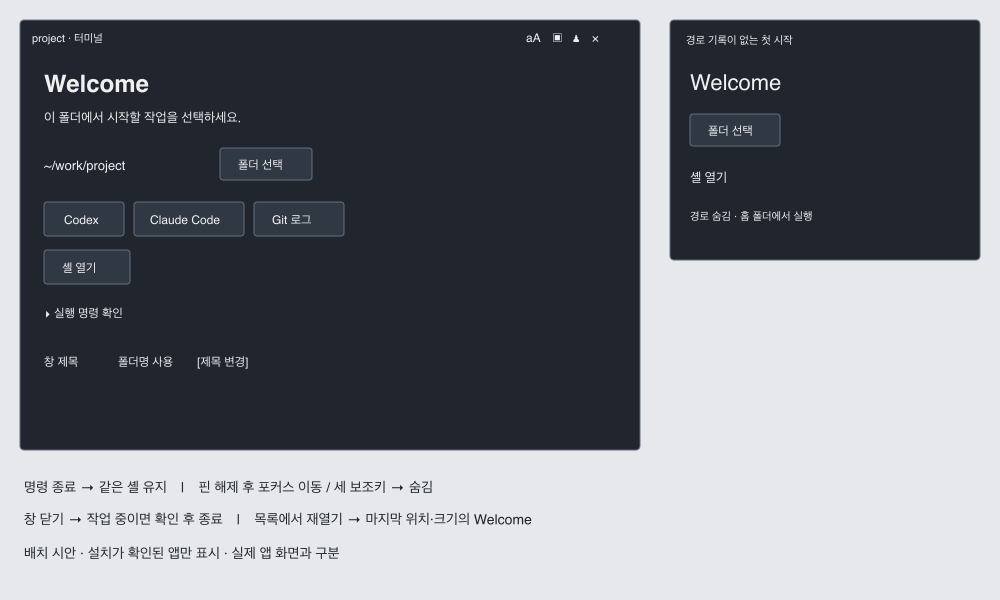
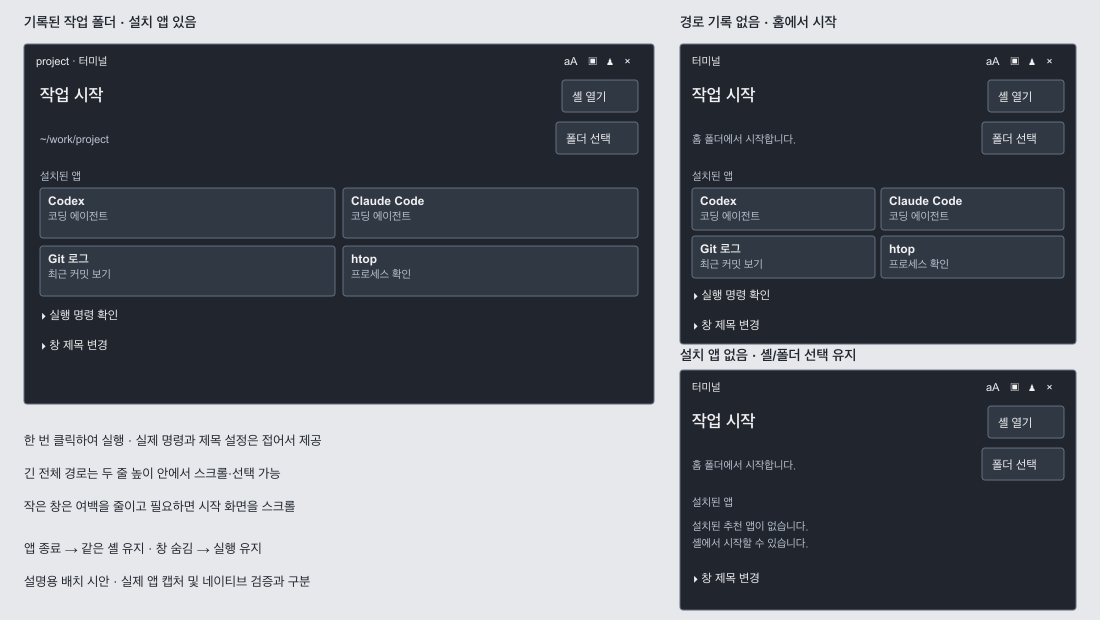
터미널 시작 화면을 전문가 합의에 맞춰 구성하고 키보드 초점을 보존
작업 위치와 앱 실행을 우선하고 명령 확인과 제목 변경을 접어 작은 창의 사용성을 개선한다. UX·접근성·Argon 토론 기록과 SVG/PNG를 갱신한다. UI 64개, Chromium 두 크기 시나리오, 개발 빌드 통과. 기존 부분 범위 탐색 테스트 실패와 네이티브 미검증은 유지한다.

diff --git a/ui/terminal.js b/ui/terminal.js
@@ -38,28 +38,44 @@ document.getElementById('close').onclick=()=>invoke(generic?'terminal_close':'te
 function setInfo(info){
   document.getElementById('title').textContent=info.title;
   const path=document.getElementById('work-path');path.hidden=!info.last_path;path.textContent=info.last_path||'';
+  document.getElementById('home-hint').hidden=Boolean(info.last_path);
 }
-async function start(choice){
+async function start(choice, trigger){
   if(started||starting)return;
   starting=true;
+  status.textContent=`${trigger?.dataset?.label||'터미널'} 시작 중…`;
+  document.getElementById('welcome').setAttribute('aria-busy','true');
   document.getElementById('welcome').hidden=true;
   document.getElementById('terminal').hidden=false;measure();
   const output=new Channel();output.onmessage=bytes=>terminal.write(new Uint8Array(bytes));
   try{
     await invoke('terminal_start',{cols:terminal.cols,rows:terminal.rows,output,choice});
     started=true;status.textContent='';measure();
-  }catch(e){report(e);if(generic){document.getElementById('welcome').hidden=false;document.getElementById('terminal').hidden=true;}}
-  finally{starting=false;}
+    if(trigger && document.hasFocus() && (document.activeElement===trigger || document.activeElement===document.body))terminal.focus();
+  }catch(e){
+    const restoreFocus=trigger && document.hasFocus() && (document.activeElement===trigger || document.activeElement===document.body);
+    report(e);if(generic){document.getElementById('welcome').hidden=false;document.getElementById('terminal').hidden=true;if(restoreFocus)trigger.focus({preventScroll:true});}
+  }
+  finally{starting=false;document.getElementById('welcome').setAttribute('aria-busy','false');}
 }
 async function welcome(){
   const {info,choices}=await invoke('terminal_welcome');setInfo(info);
   const list=document.getElementById('recommendations');list.replaceChildren();
-  for(const item of choices){const button=document.createElement('button');button.textContent=item.label;button.title=item.command;button.onclick=()=>start(item.id);list.append(button);}
+  const descriptions={codex:'코딩 에이전트',claude:'코딩 에이전트',git:'최근 커밋 보기',htop:'프로세스 확인'};
+  for(const item of choices){
+    const button=document.createElement('button');button.className='launch-app';button.dataset.label=item.label;button.setAttribute('aria-label',item.label);
+    const name=document.createElement('span');name.className='launch-name';name.textContent=item.label;
+    const description=document.createElement('span');description.className='launch-description';description.id=`description-${item.id}`;button.setAttribute('aria-describedby',description.id);description.textContent=descriptions[item.id]||'';
+    button.append(name,description);button.title=item.command;button.onclick=()=>start(item.id,button);list.append(button);
+  }
+  document.getElementById('no-apps').hidden=choices.length>0;
+  document.getElementById('command-details').hidden=choices.length===0;
   document.getElementById('commands').textContent=choices.map(item=>`${item.label}: ${item.command}`).join('\n');
 }
-document.getElementById('open-shell').onclick=()=>start('shell');
+document.getElementById('open-shell').dataset.label='셸';
+document.getElementById('open-shell').onclick=()=>start('shell',document.getElementById('open-shell'));
 document.getElementById('choose-folder').onclick=async()=>{try{setInfo(await invoke('terminal_folder'));}catch(e){report(e);}};
-document.getElementById('rename-form').onsubmit=async event=>{event.preventDefault();try{setInfo(await invoke('terminal_rename',{title:document.getElementById('rename-title').value}));}catch(e){report(e);}};
+document.getElementById('rename-form').onsubmit=async event=>{event.preventDefault();try{setInfo(await invoke('terminal_rename',{title:document.getElementById('rename-title').value}));status.textContent='창 제목을 변경했습니다.';}catch(e){report(e);}};
 (async()=>{
   const info=await invoke('terminal_info');generic=info.kind==='terminal';setInfo(info);
   if(generic){

diff --git a/ui/terminal.css b/ui/terminal.css
@@ -1,5 +1,30 @@
 html,body{width:100%;height:100%;overflow:hidden}body{cursor:default}header{height:30px;min-height:30px;display:flex;align-items:center;padding:0 8px;cursor:move;user-select:none}#title{font:var(--font-ui)/var(--line-ui) -apple-system,sans-serif;overflow:hidden;text-overflow:ellipsis;white-space:nowrap;max-width:calc(100% - 110px)}#status{padding:4px 8px;white-space:pre-wrap;overflow:auto;flex-shrink:0;max-height:50%}#status:empty{display:none}#terminal{flex:1;min-height:0;padding:3px 5px 5px;overflow:hidden;letter-spacing:0;cursor:text}.xterm{height:100%}.xterm-viewport{border-radius:0}#controls{opacity:1;pointer-events:auto}
 
-[hidden]{display:none!important}#welcome{flex:1;overflow:auto;padding:20px;min-height:0}#welcome h1{font-size:22px;margin:0 0 8px}#welcome p{opacity:.8}#welcome button,#welcome input{font:inherit;color:inherit;border:1px solid #667080;border-radius:3px;background:#303844;padding:7px 10px}#welcome button{cursor:pointer}#welcome button:hover{background:#414c5c}#welcome button:focus-visible,#welcome input:focus-visible{outline:2px solid #a8c5ff;outline-offset:2px}.folder-row{display:flex;gap:8px;align-items:center;flex-wrap:wrap;margin:20px 0}#work-path{overflow-wrap:anywhere;min-width:0}#recommendations{display:flex;gap:8px;flex-wrap:wrap;margin:12px 0}#welcome details{margin:18px 0}#commands{white-space:pre-wrap;overflow-wrap:anywhere;font-size:11px}#rename-form{display:flex;gap:8px;align-items:center;flex-wrap:wrap}#rename-title{min-width:80px;max-width:100%;box-sizing:border-box}
-#welcome button{width:auto;height:auto;min-height:32px;white-space:nowrap}#welcome input{user-select:text;-webkit-user-select:text}#work-path,#commands{user-select:text;-webkit-user-select:text}
-#welcome button{min-width:64px}
+[hidden]{display:none!important}
+#welcome{flex:1;overflow:auto;padding:16px;min-height:0}
+.welcome-heading{display:flex;align-items:center;justify-content:space-between;gap:12px;margin-bottom:12px}
+#welcome h1{font-size:17px;line-height:24px;margin:0;font-weight:600}
+#welcome h2{font-size:11px;line-height:16px;margin:0 0 6px;color:#bac3cf;font-weight:500}
+#welcome button,#welcome input{font:inherit;color:inherit;border:1px solid #667080;border-radius:3px;background:#303844;padding:6px 10px}
+#welcome button{width:auto;height:auto;min-width:64px;min-height:32px;cursor:pointer;white-space:normal}
+#welcome button:hover{background:#414c5c}
+#welcome button:focus-visible,#welcome input:focus-visible,#welcome summary:focus-visible,#work-path:focus-visible{outline:2px solid #a8c5ff;outline-offset:2px}
+.folder-row{display:flex;gap:10px;align-items:center;margin-bottom:14px}
+.folder-location{flex:1;min-width:0}
+#work-path{display:block;overflow-wrap:anywhere;max-height:3.2em;overflow:auto;line-height:1.6;user-select:text;-webkit-user-select:text}
+#home-hint{color:#bac3cf;font-size:11px}
+#choose-folder{flex-shrink:0}
+#recommendations{display:grid;grid-template-columns:repeat(2,minmax(0,1fr));gap:8px}
+#welcome .launch-app{display:flex;flex-direction:column;align-items:flex-start;text-align:left;gap:2px;min-width:0;padding:8px 10px}
+.launch-name{font-weight:600}.launch-description{font-size:11px;line-height:14px;color:#bac3cf}
+#no-apps{margin:0;font-size:11px;color:#bac3cf}
+#welcome details{margin-top:12px}#welcome summary{cursor:pointer;width:fit-content;padding:2px 0}
+#commands{white-space:pre-wrap;overflow-wrap:anywhere;font-size:11px;user-select:text;-webkit-user-select:text;margin:8px 0}
+#rename-form{display:flex;gap:8px;align-items:center;flex-wrap:wrap;margin-top:8px}
+#rename-title{flex:1;min-width:80px;max-width:100%;box-sizing:border-box;user-select:text;-webkit-user-select:text}
+#welcome .setting-hint{font-size:11px;color:#bac3cf;margin:6px 0 0}
+@media(max-width:420px),(max-height:300px){
+ #welcome{padding:10px 12px}.welcome-heading{margin-bottom:8px;gap:8px}
+ .folder-row{margin-bottom:8px;gap:8px}#recommendations{gap:6px}
+ #welcome .launch-app{padding:4px 8px;gap:0}#welcome details{margin-top:8px}
+}

diff --git a/ui/terminal.html b/ui/terminal.html
@@ -12,12 +12,11 @@
 </div>
 <button id="toolbar-next" aria-label="다음 도구" aria-controls="toolbar-items" hidden><svg viewBox="0 0 24 24" aria-hidden="true"><path d="m10 6 6 6-6 6"/></svg></button>
 </div>
-<section id="welcome" hidden aria-label="Welcome">
-<h1>Welcome</h1><p>이 폴더에서 시작할 작업을 선택하세요.</p>
-<div class="folder-row"><span id="work-path" hidden></span><button id="choose-folder">폴더 선택</button></div>
-<div id="recommendations" aria-label="설치된 앱"></div>
-<button id="open-shell">셸 열기</button>
-<details><summary>실행 명령 확인</summary><pre id="commands"></pre></details>
-<form id="rename-form"><label for="rename-title">창 제목</label><input id="rename-title" maxlength="120" placeholder="폴더명 사용"><button type="submit">제목 변경</button></form>
+<section id="welcome" hidden aria-label="작업 시작" aria-busy="false">
+<div class="welcome-heading"><h1>작업 시작</h1><button id="open-shell">셸 열기</button></div>
+<div class="folder-row"><div class="folder-location"><span id="work-path" tabindex="0" aria-label="작업 폴더 전체 경로" hidden></span><span id="home-hint">홈 폴더에서 시작합니다.</span></div><button id="choose-folder">폴더 선택</button></div>
+<section class="apps-section" aria-labelledby="apps-heading"><h2 id="apps-heading">설치된 앱</h2><div id="recommendations"></div><p id="no-apps" hidden>설치된 추천 앱이 없습니다. 셸에서 시작할 수 있습니다.</p></section>
+<details id="command-details"><summary>실행 명령 확인</summary><pre id="commands"></pre></details>
+<details id="title-details"><summary>창 제목 변경</summary><form id="rename-form"><label for="rename-title">제목</label><input id="rename-title" maxlength="120" placeholder="비우면 폴더명 사용"><button type="submit">적용</button></form><p class="setting-hint">비우면 폴더명을 사용합니다.</p></details>
 </section><div id="status" role="status"></div><main id="terminal" aria-label="에이전트 터미널"></main></div><div class="resize" data-direction="North" id="n"></div><div class="resize" data-direction="South" id="s"></div><div class="resize" data-direction="East" id="e"></div><div class="resize" data-direction="West" id="w"></div><div class="resize corner" data-direction="NorthWest" id="nw"></div><div class="resize corner" data-direction="NorthEast" id="ne"></div><div class="resize corner" data-direction="SouthWest" id="sw"></div><div class="resize corner" data-direction="SouthEast" id="se"></div>
 <script src="vendor/xterm.js"></script><script src="vendor/addon-fit.js"></script><script src="terminal-ime.js"></script><script src="terminal.js"></script><script type="module" src="toolbar.js"></script></body></html>

diff --git a/docs/verification/issue57-welcome-review.md b/docs/verification/issue57-welcome-review.md
@@ -1,0 +1,35 @@
+# #57 Welcome 구성 개선 토론 — 2026-11-05
+
+## 성격과 범위
+
+사용자의 전문가 토론 요청에 따라 UX/정보구조 검토자, 접근성 검토자, Argon이 독립 제안과 상호 반론을 제출하고 주 작업자가 합의안을 구현했다. 역할에 따른 설계 검토이며 실제 사용자를 모집한 실증조사, 사용성 점수 측정, 전문가 자격 인증을 의미하지 않는다. UX 검토자는 실제 UI 파일과 디자인 시스템을 읽었으며 Argon 1차는 제공된 요구사항만으로 분석했다.
+
+대상은 `ui/terminal.html`, `ui/terminal.css`, `ui/terminal.js`의 시작 화면 구성이다. 기존 에이전트 자동 시작, PTY 수명, 숨김·종료, 설치 감지, resume 제외 정책은 변경하지 않는다. 합의된 시각 기준의 원본은 [디자인 시스템](../design-system.md#terminal-welcome--57-2026-11-05)이다.
+
+## 제안·반론·합의
+
+| 관점 | 초기 제안 | 반론과 조정 | 최종 채택 |
+|---|---|---|---|
+| UX/정보구조 | 큰 Welcome 축소, 작업 위치→실행→설정 순서, 제목 폼 접기, 단일 명령 details | 셸을 보조 행에 두면 범용 터미널 진입이 묻힐 수 있음. 긴 경로 전체 줄바꿈은 작은 창의 실행 영역을 밀어냄 | ‘작업 시작’과 항상 보이는 셸 열기, 작업 위치 행, 두 열 앱 버튼, 하단 details. 경로 원문은 두 줄 높이 안에서 스크롤 |
+| 접근성 | 작은 제목·홈 설명·제목 details, 단일 클릭 실행 유지, 시작 상태·실패 초점 복원·명시 실행 후 입력 초점 | 카드 선택 후 별도 실행은 Tab 이동과 스크롤을 늘림. 명령 확인을 Tooltip에만 맡기면 키보드 접근성이 약함. 초점 변경은 IME 회귀 검증 필요 | 앱 버튼 자체가 실행, 명령 본문 details, 명시적 focus-visible, 상태 안내, 조건부 성공 초점/실패 복원 |
+| Argon 1차 | 위치 우선, 에이전트/셸과 보조 도구 분리, 인라인 실제 명령, 타이틀바 제목 편집, 작은 창 설명 축약 | 절대경로 명령·다중 그룹·상시 동작 설명은 작은 창 높이를 늘림. 타이틀바 편집은 드래그와 충돌 가능. 설명 전체 숨김은 앱 역할 이해를 약화 | 역할 설명이 있는 동일한 두 열 앱 버튼, 명령 단일 details, 본문 제목 details, 좁은 화면 패딩 축소로 절충 |
+| Argon 2차 | 통합안 수용, 단일 명령 확인·홈 위치 설명·초점 복원·Enter 적용 권고 | 모든 앱과 details를 320×240에서 항상 무스크롤로 보장하는 것은 긴 경로 등 가변 상태와 충돌 | 실행 우선 배치와 필요 시 스크롤. 제목 Enter 제출 유지. 무스크롤 보장은 하지 않음 |
+
+Argon 원문은 작업 당시 `/tmp/gibbon-welcome-review/argon-round1.txt`, `argon-round2.txt`에 저장했다. 임시 파일은 영구 문서의 의존성이 아니며 위 표가 토론의 보존용 요약이다. Argon이 예시로 제안한 셸 명령/옵션이나 첫 답변의 Git 명령은 실제 구현 명령의 근거로 사용하지 않는다. 명령 details는 백엔드가 반환한 설치 앱의 실제 명령만 표시한다. 셸 실제 명령 추가 표시는 이번 변경에 포함하지 않았다. 빈 제목 제출은 기존 사용자 제목 유지가 아니라 기본 제목 복원이다.
+
+## 시안과 검증 경계
+
+[SVG](../design/terminal-welcome.svg)와 [PNG](../design/terminal-welcome.png)는 합의된 구성의 설명용 시안이다. 기록 경로, 경로 없는 시작, 설치 앱 없음의 세 상태를 보여 주며 실제 앱 캡처가 아니다. SVG를 `rsvg-convert`로 PNG로 렌더링해 텍스트·버튼·배치의 겹침을 시각 확인했다.
+
+이번 토론이나 시안 검토로 기존 is2 게이트 실패와 독립 감사의 퇴행 신호를 해소했다고 판단하지 않는다. [기존 검증 기록](issue57-terminal-welcome.md)의 부분 범위 탐색 테스트 실패(최종 Clippy는 통과), 자동 병합 제외 및 macOS 최종 네이티브 GUI·Windows 실앱 미검증을 그대로 유지한다. 이번 UI 실행 검증 결과는 주 작업자의 해당 검증 기록을 따르며 시안 렌더를 네이티브 검증으로 대체하지 않는다.
+
+
+## 후속 구현 검증
+
+- 작업 루트: `/Users/egoinglee/orca/workspaces/agent-gibbon/agent-gibbon/57-terminal-welcome`.
+- `npm run test:ui`: 64/64 통과. `node --check ui/terminal.js`, `git diff --check` 통과.
+- `npm run dev:build`: 개발 바이너리 빌드 통과. 실행 중인 앱은 재시작하지 않았으며 현재 native 화면이 최신 빌드라고 주장하지 않는다.
+- `PLAYWRIGHT_MODULE=/tmp/agent-gibbon-is2-57/browser-tools/node_modules/playwright/index.mjs node scripts/terminal-welcome-smoke.mjs`: 720×460·320×240 통과. 실제 HTML/CSS/xterm 자산을 사용하되 Tauri 호출은 모의 처리했다. 앱 4개/없음, 긴 경로, 키보드 details, 제목, 앱·셸 실행, 실패 재시도와 닫기 요청을 확인했다.
+- 독립 코드 리뷰에서 늦은 실패 응답이 사용자가 툴바로 옮긴 포커스를 되돌리는 문제를 발견했다. Welcome 복원 전에 현재 포커스를 확인하도록 수정하고, 지연 Promise 실패 후 핀 버튼 포커스가 유지되는지 두 크기에서 재검증했다.
+- 시작 화면 [720×460](issue57-welcome-browser.png) · [320×240](issue57-welcome-browser-small.png)을 직접 시각 확인했다. 네이티브 화면·실제 PTY·VoiceOver 검증 증거는 아니다.
+- 사용자 보고 입력 문제는 별도 [한글 조합 표시 #62](https://github.com/egoing/agent-gibbon/issues/62), [보조키+방향키 #63](https://github.com/egoing/agent-gibbon/issues/63)로 등록했다. 이번 구성 변경에서 해결했다고 주장하지 않는다.
